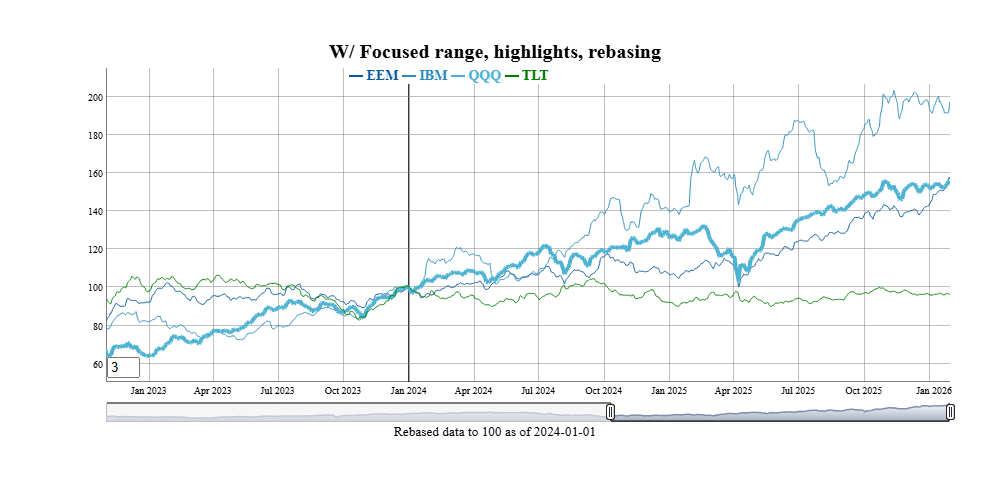
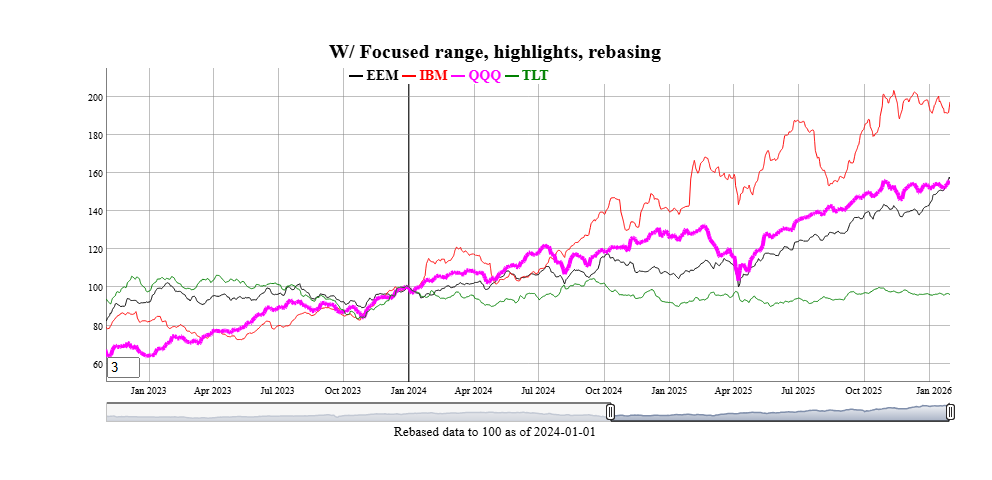
README update

diff --git a/README.md b/README.md
@@ -215,12 +215,11 @@ graduated set of colors for the first 3 series.
 
 ``` r
 fg_get_colors("lines",n_max=4)
-#> Key: <category, variable>
 #>    category variable   color  const
 #>      <char>   <char>  <char> <lgcl>
-#> 1:    lines      D01 #08589E     NA
-#> 2:    lines      D02 #2B8CBE     NA
-#> 3:    lines      D03 #4EB3D3     NA
+#> 1:    lines      D01   black     NA
+#> 2:    lines      D02     red     NA
+#> 3:    lines      D03 magenta     NA
 #> 4:    lines      D04   green     NA
 fg_update_line_colors( rev(RColorBrewer::brewer.pal(8,"GnBu"))[1:3] )
 #> Saved Colors of interest file to C:\Users\DFH\AppData\Local/R/cache/R/FinanceGraphs/fg_colors.RD
